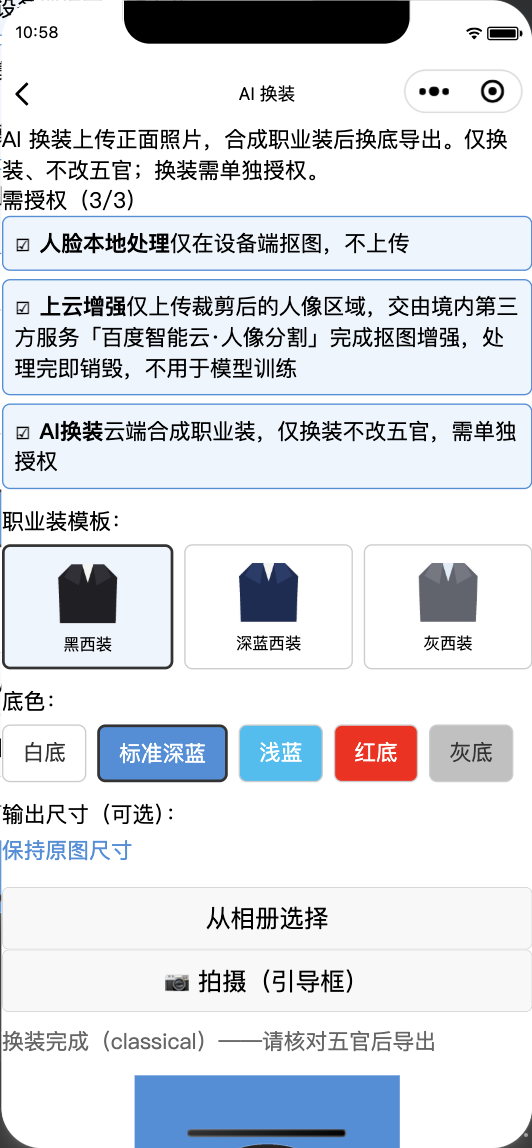
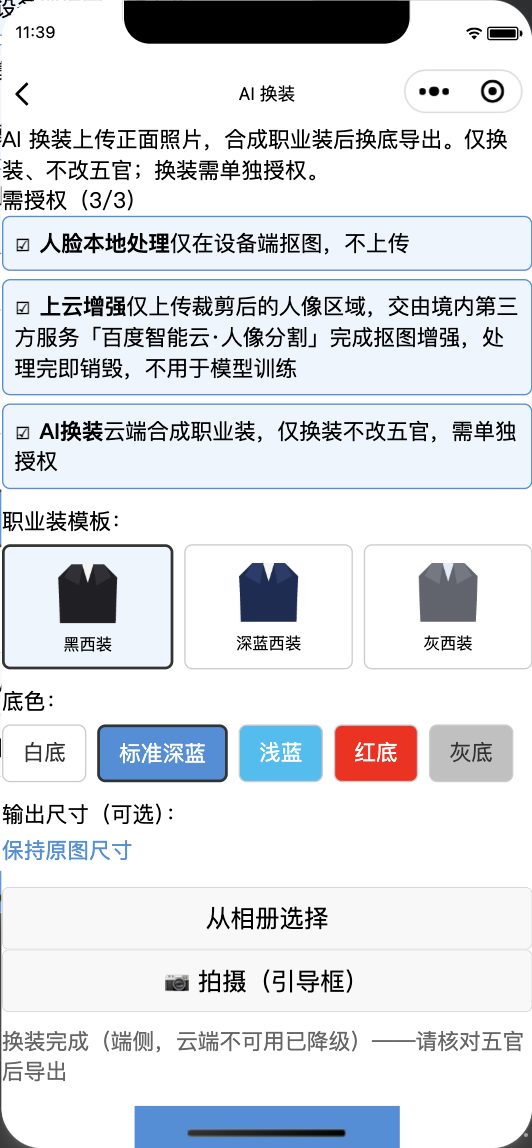
fix(#51): 复杂背景自动改走云端精修（置信高 ≠ 质量好）
- core/matting.js：decideRoute(conf, forceCloud) + segment({forceCloud})，强制上云需已授权 faceCloudEnhance，否则不强制也不抛 AC5

- useImagePicker：onImage(img, quality) 把本次取图的质量评估结果随参数回传（回调读 state 会拿到旧值，#31 同根）

- T1/T2/T3：质量提示判定 complexbg 且用户已勾「上云增强」→ 自动走百度云端真模型

- 状态行改中文后端名（端侧/云端精修），云端失败显示「云端不可用已降级」；质量提示文案补充云端精修引导

- T2 页面提示补充「只换底不裁剪构图，要出证件照请用一键证件照」

- 验证：verify.sh 全量（tsc 0 / 193 单测含 3 条新断言 / 编译通过）；T1/T2/T3 冒烟重跑全绿

- 文档：台账 #51、问题台账 #63、避坑指南新增「路由只看置信度不够 + hook 回调别读 state」

diff --git a/idphoto-miniprogram/src/pages/tool-bg/index.tsx b/idphoto-miniprogram/src/pages/tool-bg/index.tsx
@@ -7,7 +7,7 @@ import {
   buildCloudFnAdapter,
   planOutput,
   BG, getSpec, getPixelSize, listSpecs,
-  DPI_STD, DPI_HD,
+  DPI_STD, DPI_HD, backendLabel,
 } from '../../services';
 import { useImagePicker } from '../../hooks/useImagePicker';
 
@@ -39,7 +39,9 @@ export default function ToolBg() {
   const consentItems = requiredConsents(TOOL);
   const [granted, setGranted] = useState<string[]>([]);
   const rec = buildConsentRecord(TOOL, granted);
-  const picker = useImagePicker((img) => run(img.path, img.width, img.height));
+  const picker = useImagePicker((img, q) =>
+    run(img.path, img.width, img.height, { forceCloud: shouldForceCloud(q) }),
+  );
 
   const specs = listSpecs();
   const [specIndex, setSpecIndex] = useState(-1); // -1 = 保持原图尺寸（不裁剪）
@@ -61,6 +63,13 @@ export default function ToolBg() {
   } | null>(null);
   // 源图信息：换规格/dpi 时据此自动重跑整条链路（用户不必重新选图）
   const lastSrc = useRef<{ path: string; w: number; h: number } | null>(null);
+
+  // 背景复杂 + 已授权上云 → 强制走云端真模型（任务 #51：端侧置信高 ≠ 质量好）
+  function shouldForceCloud(q: any): boolean {
+    if (!q || !Array.isArray(q.tips)) return false;
+    const complex = q.tips.some((t: any) => t.code === 'complexbg');
+    return complex && granted.includes('faceCloudEnhance');
+  }
 
   const toggleConsent = (id: string) => {
     setGranted((prev) => (prev.includes(id) ? prev.filter((x) => x !== id) : [...prev, id]));
@@ -85,7 +94,7 @@ export default function ToolBg() {
     path: string,
     srcW: number,
     srcH: number,
-    opts?: { bgHex?: string | null; transparent?: boolean; specIndex?: number; dpi?: number },
+    opts?: { bgHex?: string | null; transparent?: boolean; specIndex?: number; dpi?: number; forceCloud?: boolean },
   ) {
     if (!rec.ready) {
       Taro.showToast({ title: '请先勾选所需授权', icon: 'none' });
@@ -156,6 +165,7 @@ export default function ToolBg() {
         consents: granted,
         audit: (meta: any) => console.log('[audit]', meta),
         tool: TOOL,
+        forceCloud: !!opts?.forceCloud, // 任务 #51：复杂背景强制云端精修
       });
 
       // 5. 换底合成 + 导出（共享渲染服务，任务 #50）
@@ -183,7 +193,7 @@ export default function ToolBg() {
         (seg.degraded ? ' · 已降级端侧' : '') +
         (specIdx >= 0 ? ` · ${specs[specIdx].name} @${dpiVal}dpi` : ' · 原图尺寸'),
       );
-      setMsg(`完成（${seg.backend}）`);
+      setMsg(`完成（${backendLabel(seg.backend)}${seg.degraded ? '，云端不可用已降级' : ''}）`);
     } catch (e: any) {
       const m = String((e && e.message) || e);
       if (m.startsWith('AC5')) {
@@ -262,7 +272,7 @@ export default function ToolBg() {
   return (
     <View className='page'>
       <Text className='page__title'>单独换底色</Text>
-      <Text className='page__hint'>上传一张已有照片，仅替换背景色，不改动五官。不强制规格、不做预审。</Text>
+      <Text className='page__hint'>上传一张已有照片，仅替换背景色，不改动五官。不强制规格、不做预审；**只换底不裁剪构图**，要出证件照请用「一键证件照」。</Text>
 
       {/* 授权（默认不勾选，未集齐不启动处理） */}
       <View className='consent'>

diff --git a/idphoto-miniprogram/src/pages/tool-idphoto/index.tsx b/idphoto-miniprogram/src/pages/tool-idphoto/index.tsx
@@ -12,6 +12,7 @@ import {
   collectEdgeSamples,
   BG, getSpec, getPixelSize, listSpecs, specLabel,
   DPI_STD, DPI_HD,
+  backendLabel,
 } from '../../services';
 import { useImagePicker } from '../../hooks/useImagePicker';
 import { applyBeauty } from '../../services';
@@ -64,10 +65,17 @@ export default function ToolIdPhoto() {
   const consentItems = requiredConsents(TOOL);
   const [granted, setGranted] = useState<string[]>([]);
   const rec = buildConsentRecord(TOOL, granted);
-  const picker = useImagePicker((img) => {
+  const picker = useImagePicker((img, q) => {
     setLastPick(img);
-    run(img.path, img.width, img.height);
+    run(img.path, img.width, img.height, { forceCloud: shouldForceCloud(q) });
   });
+
+  // 背景复杂 + 已授权上云 → 强制走云端真模型（任务 #51：端侧置信高 ≠ 质量好）
+  function shouldForceCloud(q: any): boolean {
+    if (!q || !Array.isArray(q.tips)) return false;
+    const complex = q.tips.some((t: any) => t.code === 'complexbg');
+    return complex && granted.includes('faceCloudEnhance');
+  }
 
   const specs = listSpecs();
   const [specIndex, setSpecIndex] = useState(0);
@@ -117,7 +125,7 @@ export default function ToolIdPhoto() {
   // 放宽 Taro 类型（微信 canvas 2d API 在部分基础库类型不全，统一用 any 访问）
   const anyTaro: any = Taro;
 
-  async function run(path: string, srcW: number, srcH: number, opts?: { suitOn?: boolean; specIndex?: number; dpi?: number }) {
+  async function run(path: string, srcW: number, srcH: number, opts?: { suitOn?: boolean; specIndex?: number; dpi?: number; forceCloud?: boolean }) {
     if (!rec.ready) {
       Taro.showToast({ title: '请先勾选所需授权', icon: 'none' });
       return;
@@ -269,6 +277,7 @@ export default function ToolIdPhoto() {
         consents: granted,
         audit: (meta: any) => console.log('[audit]', meta),
         tool: TOOL,
+        forceCloud: !!opts?.forceCloud, // 任务 #51：复杂背景强制云端精修
       });
 
       // 6. 换底合成：暂存工作画布的 RGBA 与 alpha，供「手动修补」重合成（PRD B1 / T1-17）
@@ -351,7 +360,7 @@ export default function ToolIdPhoto() {
         headHeightRatio: headRatio != null ? headRatio : undefined,
       });
       setResult(cr);
-      setMsg(`完成（${seg.backend}${seg.degraded ? '，已降级端侧' : ''}）`);
+      setMsg(`完成（${backendLabel(seg.backend)}${seg.degraded ? '，云端不可用已降级' : ''}）`);
     } catch (e: any) {
       const m = String((e && e.message) || e);
       if (m.startsWith('AC5')) {

diff --git a/idphoto-miniprogram/src/core/matting.js b/idphoto-miniprogram/src/core/matting.js
@@ -10,7 +10,10 @@ const { cloudMatting } = require('./mattingCloud');
 const CONF_THRESHOLD = 0.85; // 端侧置信度阈值，低于则触发上云增强
 
 // 根据置信度决定处理路由
-function decideRoute(confidence) {
+// forceCloud：调用方明确要求走云端（如质量评估判定「背景复杂」——**置信高 ≠ 质量好**，
+//              端侧经典算法在复杂背景上可能"自信地抠错"，任务 #51）
+function decideRoute(confidence, forceCloud = false) {
+  if (forceCloud) return 'cloud';
   return confidence >= CONF_THRESHOLD ? 'edge' : 'cloud';
 }
 
@@ -22,10 +25,16 @@ function decideRoute(confidence) {
 //   bgSamples: 背景色采样集（任务 #24）。经典基线的背景色由「画布四边」估计，
 //              T1 自动裁剪把工作画布缩小到「裁剪窗+余量」后四边可能压在人体上，
 //              故允许调用方在整图上先采一次注入。缺省不传 → 沿用四边采样（行为不变）。
-async function segment({ rgba, width, height, session, cloud, consents, audit, tool, bgSamples } = {}) {
+async function segment({ rgba, width, height, session, cloud, consents, audit, tool, bgSamples, forceCloud } = {}) {
   if (!rgba || !width || !height) throw new Error('segment: 缺少 rgba/width/height');
   const res = await localMatting(rgba, width, height, { session, bgSamples });
-  const route = decideRoute(res.quality.confidence);
+  // 强制上云的前提：已注入上云能力 + 已授权 faceCloudEnhance（AC5）
+  // 未授权时不强制（更不能因强制而抛 AC5 阻断用户），按原置信度路由
+  const canForce =
+    !!forceCloud &&
+    !!cloud && !!cloud.adapter &&
+    (consents || []).indexOf('faceCloudEnhance') >= 0;
+  const route = decideRoute(res.quality.confidence, canForce);
   const base = {
     width, height,
     maskSize: width * height,
@@ -92,8 +101,16 @@ function compositeTransparent(rgba, alpha, width, height) {
   return out;
 }
 
+/** 后端名 → 用户可读标签（'classical'/'edge' → 端侧；'cloud' → 云端精修） */
+function backendLabel(backend) {
+  if (backend === 'cloud') return '云端精修';
+  if (backend === 'classical' || backend === 'edge') return '端侧';
+  return String(backend || '');
+}
+
 module.exports = {
   CONF_THRESHOLD, decideRoute, segment, composite, compositeTransparent, estimateQuality, localMatting,
+  backendLabel,
   // 上云增强（来自 mattingCloud）
   cloudMatting,
   // 背景色采样（来自 mattingLocal，任务 #24 区域化裁剪用）

diff --git a/idphoto-miniprogram/src/hooks/useImagePicker.tsx b/idphoto-miniprogram/src/hooks/useImagePicker.tsx
@@ -100,7 +100,10 @@ async function getFileSizeBytes(
  * 由本 hook 在相册/拍照两种路径拿到路径与尺寸后统一调用。
  */
 export function useImagePicker(
-  onImage: (img: PickedImage) => void | Promise<void>,
+  /** onImage 第二个参数是本次取图的**质量评估结果**（可能为 null）。
+   *  为什么要传而不是让调用方读 picker.quality：setState 是异步的，
+   *  回调里读到的仍是旧值（问题台账 #31 同根）——任务 #51 需要它决定是否强制上云。 */
+  onImage: (img: PickedImage, quality: QualityTipProps['quality']) => void | Promise<void>,
 ): ImagePicker {
   const [cameraOpen, setCameraOpen] = useState(false);
   const [quality, setQuality] = useState<QualityTipProps['quality']>(null);
@@ -109,12 +112,15 @@ export function useImagePicker(
   const evaluate = async (path: string, w: number, h: number) => {
     setQuality(null);
     const rgba = await samplePixels(path);
-    if (!rgba) return; // 取不到像素 → 不提示
+    if (!rgba) return null; // 取不到像素 → 不提示
+    let q: QualityTipProps['quality'] = null;
     try {
-      setQuality(assessQuality(rgba, SAMPLE_SIZE, SAMPLE_SIZE, w, h));
+      q = assessQuality(rgba, SAMPLE_SIZE, SAMPLE_SIZE, w, h);
+      setQuality(q);
     } catch (e) {
       // 算法异常也不阻断
     }
+    return q;
   };
 
   const pickAlbum = async () => {
@@ -134,8 +140,8 @@ export function useImagePicker(
         Taro.showToast({ title: v.message || '图片不符合要求', icon: 'none' });
         return;
       }
-      await evaluate(path, info.width, info.height);
-      await onImage({ path, width: info.width, height: info.height });
+      const q = await evaluate(path, info.width, info.height);
+      await onImage({ path, width: info.width, height: info.height }, q);
     } catch (e: any) {
       const m = String((e && e.message) || e);
       // 用户主动取消（cancel / 取消）不提示，其余读取失败给轻提示
@@ -160,8 +166,8 @@ export function useImagePicker(
         Taro.showToast({ title: v.message || '图片不符合要求', icon: 'none' });
         return;
       }
-      await evaluate(path, info.width, info.height);
-      await onImage({ path, width: info.width, height: info.height });
+      const q = await evaluate(path, info.width, info.height);
+      await onImage({ path, width: info.width, height: info.height }, q);
     } catch (e) {
       Taro.showToast({ title: '读取照片失败，请重试', icon: 'none' });
     }

diff --git a/idphoto-miniprogram/src/pages/tool-suit/index.tsx b/idphoto-miniprogram/src/pages/tool-suit/index.tsx
@@ -10,6 +10,7 @@ import {
   planOutput,
   BG, getSpec, getPixelSize, listSpecs,
   DPI_STD, DPI_HD,
+  backendLabel,
 } from '../../services';
 import { useImagePicker } from '../../hooks/useImagePicker';
 
@@ -51,7 +52,16 @@ export default function ToolSuit() {
   const consentItems = requiredConsents(TOOL);
   const [granted, setGranted] = useState<string[]>([]);
   const rec = buildConsentRecord(TOOL, granted);
-  const picker = useImagePicker((img) => run(img.path, img.width, img.height));
+  const picker = useImagePicker((img, q) =>
+    run(img.path, img.width, img.height, { forceCloud: shouldForceCloud(q) }),
+  );
+
+  // 背景复杂 + 已授权上云 → 强制走云端真模型（任务 #51：端侧置信高 ≠ 质量好）
+  function shouldForceCloud(q: any): boolean {
+    if (!q || !Array.isArray(q.tips)) return false;
+    const complex = q.tips.some((t: any) => t.code === 'complexbg');
+    return complex && granted.includes('faceCloudEnhance');
+  }
 
   const specs = listSpecs();
   const [tplIndex, setTplIndex] = useState(0);
@@ -81,7 +91,7 @@ export default function ToolSuit() {
     path: string,
     srcW: number,
     srcH: number,
-    opts?: { bgHex?: string | null; specIndex?: number; dpi?: number },
+    opts?: { bgHex?: string | null; specIndex?: number; dpi?: number; forceCloud?: boolean },
   ) {
     // 参数覆盖（任务 #50）：state 异步，链式操作必须显式传值（问题台账 #31 同根）
     const specIdx = opts?.specIndex ?? specIndex;
@@ -139,6 +149,7 @@ export default function ToolSuit() {
         consents: granted,
         audit: (meta: any) => console.log('[audit]', meta),
         tool: TOOL,
+        forceCloud: !!opts?.forceCloud, // 任务 #51：复杂背景强制云端精修
       });
 
       // 5. 头肩定位（统一走 services/faceService，任务 #4：与 T1/T4 同一套口径）
@@ -188,7 +199,7 @@ export default function ToolSuit() {
         (specIdx >= 0 ? ` · ${specs[specIdx].name} @${dpiVal}dpi` : ' · 原图尺寸') +
         ` · ${headIsEstimate ? '比例估算定位' : '关键点定位'}`,
       );
-      setMsg(`换装完成（${seg.backend}）——请核对五官后导出`);
+      setMsg(`换装完成（${backendLabel(seg.backend)}${seg.degraded ? '，云端不可用已降级' : ''}）——请核对五官后导出`);
     } catch (e: any) {
       const m = String((e && e.message) || e);
       if (m.startsWith('AC5')) {

diff --git a/idphoto-miniprogram/src/services/index.ts b/idphoto-miniprogram/src/services/index.ts
@@ -3,7 +3,7 @@
 import { getSpec, getPixelSize, listSpecs, BG, BG_LABELS, DPI_STD, DPI_HD, specLabel } from '../core/specLibrary';
 import { listPapers, getPaper, planLayout, mmToPx, PAPERS, DEFAULT_MARGIN_MM, DEFAULT_GAP_MM, sheetPixelSize } from '../core/paperLibrary';
 import { check } from '../core/compliance';
-import { decideRoute, CONF_THRESHOLD, segment, composite, compositeTransparent, cloudMatting, collectEdgeSamples } from '../core/matting';
+import { decideRoute, CONF_THRESHOLD, segment, composite, compositeTransparent, cloudMatting, collectEdgeSamples, backendLabel } from '../core/matting';
 import { makeHttpAdapter, makeLocalBiRefStub, assertDomestic, cropForeground, encodeAlphaB64, decodeAlphaB64 } from '../core/mattingCloud';
 import { makeCloudFnAdapter } from './cloudFnAdapter';
 import { composeAndExportImage } from './renderService';
@@ -47,7 +47,7 @@ export {
   // 合规引擎
   check,
   // 抠图
-  decideRoute, CONF_THRESHOLD, segment, composite, compositeTransparent, cloudMatting, collectEdgeSamples,
+  decideRoute, CONF_THRESHOLD, segment, composite, compositeTransparent, cloudMatting, collectEdgeSamples, backendLabel,
   // 换装（T3 端侧贴图合成）
   alphaBBox, suitPlacement, suitCompose,
   // 输出构图规划（600dpi 动态工作图尺寸 + 裁剪窗口，三页共用）

diff --git a/idphoto-miniprogram/src/core/__tests__/core.test.js b/idphoto-miniprogram/src/core/__tests__/core.test.js
@@ -159,6 +159,10 @@ test('路由：置信≥0.85 走端侧，低于走云端', () => {
   assert.strictEqual(decideRoute(0.9), 'edge');
   assert.strictEqual(decideRoute(CONF_THRESHOLD), 'edge');
   assert.strictEqual(decideRoute(0.84), 'cloud');
+  // 任务 #51：forceCloud —— 调用方可强制上云（置信高 ≠ 质量好：复杂背景上端侧可能"自信地抠错"）
+  assert.strictEqual(decideRoute(0.99, true), 'cloud');
+  assert.strictEqual(decideRoute(0.5, true), 'cloud');
+  assert.strictEqual(decideRoute(0.99, false), 'edge');
 });
 
 test('质量评估：干净 alpha（无歧义）→ 置信=1，走端侧', () => {

diff --git a/idphoto-miniprogram/src/core/quality.js b/idphoto-miniprogram/src/core/quality.js
@@ -94,7 +94,7 @@ function assessQuality(rgba, w, h, srcW, srcH) {
     tips.push({
       level: 'warn',
       code: 'complexbg',
-      text: '背景较复杂，抠图边缘可能不干净，建议换纯色背景重拍',
+      text: '背景较复杂，抠图边缘可能不干净；勾选「上云增强」可改用云端精修（推荐）或换纯色背景重拍',
     });
   }
 

diff --git a/开发任务台账.md b/开发任务台账.md
@@ -53,7 +53,7 @@
 | 43 | **T1-11/12 向导内换装入口**（T1 向导集成换装步骤 + 五官自检闸门） | ✅ 完成（2026-10-27） | AI | 2026-10-27 完成：`pages/tool-idphoto` 集成 AI 换装——新增「👔 AI 换装（可选）」折叠面板（3 套自绘西装模板 + suitSwap 单独授权），复用 T3 端侧贴图合成 `suitCompose`（D2：仅覆盖肩颈前景区、不触碰脸部像素）；`applySuit`/`cancelSuit` 用最近一次取图重跑（`wantSuit` 显式传参，避开 setState 异步旧值）；换装后强制「五官自检」`.selfcheck` 区块 + `save()`/按钮双闸门（AC6：`suitApplied && !selfChecked` 禁用导出；每次重新生成重置自检）。验证：tsc 0 告警、core 单测 185 全过、新增 `工具链/verify_t1_suit.js` Node 仿真（无换装路径逐字节零回归、颈部线以上不变 D2、changeBelow>0）。**换装实际渲染/自检触控需真机（沙箱无 canvas），列入 #14 真机冒烟** | #2b | 10-27 |
 | 44 | **.gitignore 排除 `.workbuddy/`**（内部数据永不入库） | ✅ 完成（提交 c7fdc88） | AI | `.gitignore` 新增「项目内部数据」段（`.workbuddy/` 一律排除）；`git rm --cached` 解除 5 个误跟踪文件（4 日志 + MEMORY.md），磁盘实体保留。验证：`git check-ignore` 命中、`.workbuddy` 不再出现在 untracked；core 单测未受影响 | — | 10-26 |
 | 50 | **真机反馈：换底色/换规格/换 dpi 后成品不跟着变**（owner 2026-10-27 真机截图） | ✅ 完成（2026-10-27） | AI | 根因：四页参数控件只 setState 不触发重算（问题台账 #61）。修法：① 新建 `src/services/renderService.ts`（`composeAndExportImage` 合成+裁剪+导出，三页共用）；② 换底色/自定义色/透明底 → **只重跑合成**（秒级，不重跑抠图），T1 同步重算 5 项预审；③ 换规格/dpi → 工作画布与 alpha 坐标系改变 → 缓存源图路径后**自动整链重跑**（用户不必重新选图）；④ 链式操作显式传参（规避 setState 异步旧值）；⑤ 顺带修 T1 手动修补的 alpha 克隆二值化（#58 同根）。验证：`verify.sh` 全量（tsc 0 / 单测 193 / 编译通过）+ **5 个冒烟全部重跑通过**（T1/T2/T3/T5/T6），其中 `smoke_t2` 新增「换底色后重新合成」回归断言（底色 #FFFFFF → #438EDB 实测 OK） | #61 #62 | 10-27 |
-| 51 | **复杂背景下端侧抠图质量差**（owner 真机截图：原图 414×834 浅色复杂背景，端侧 classical 抠图后发丝/浅色区域残留、整体发白） | ⬜ 待办 | AI | 现状：路由按 confidence 决定是否上云，本例置信够 → 走端侧 → 视觉质量差（置信高 ≠ 质量好）。**候选修法**：① 质量提示（#36）判定「背景复杂」时，引导用户勾选「上云增强」走百度云端真模型；② 或把「背景复杂」纳入上云路由条件。**非阻塞**：用户勾上云增强即可获得更好效果（先在真机复验勾选后的效果再定方案） | — | 10-27 |
+| 51 | **复杂背景下端侧抠图质量差**（owner 真机截图：原图 414×834 浅色背景，端侧 classical 抠图后背景残留条纹、发丝破损） | ✅ 完成（2026-10-27） | AI | 根因：路由只看 confidence（置信高 ≠ 质量好）→ 复杂背景也走端侧经典算法。修法：① `core/matting.js` 的 `decideRoute(conf, forceCloud)` + `segment({forceCloud})` 支持强制上云（须已授权 faceCloudEnhance，否则不强制、绝不因强制抛 AC5）；② `useImagePicker` 把**本次取图的质量评估结果**一并回传（`onImage(img, quality)`）——setState 异步，回调里读 `picker.quality` 拿到的是旧值（#31 同根）；③ T1/T2/T3：当质量提示判定「背景复杂（complexbg）」且用户已勾选「上云增强」→ **自动改走百度云端真模型**；④ 状态行改中文后端名（端侧/云端精修），云端失败时显示「云端不可用已降级」；⑤ 质量提示文案补充「勾选上云增强可改用云端精修（推荐）」；⑥ T2 页面提示补充「只换底不裁剪构图，要出证件照请用一键证件照」。验证：`verify.sh` 全量（tsc 0 / 单测仍 193 条（新增 3 条 forceCloud 路由断言）/ 编译通过）+ T1/T2/T3 冒烟重跑全绿（模拟器无云端能力 → 状态行显示「端侧，云端不可用已降级」，降级链路正常）。**真机复验待 owner**：重新编译预览后用同一张原图复测，状态行应显示「完成（云端精修）」 | — | 10-27 |
 | 45 | **首页等保标识**（PRD I4） | ⬜ 待办（依赖等保申请） | 唐强 | #2e/#15：等保申请通过后再挂标识 | — | 10-26 |
 | 47 | **统一小程序内标题文案与注册名称**（原「证件照工具箱」→「标准照裁剪」） | ✅ 完成（2026-10-27） | AI | 3 处硬编码全部改为「标准照裁剪」：① `app.config.ts` 的 `window.navigationBarTitleText`（全局）② `pages/home/index.config.ts`（首页覆盖）③ `pages/home/index.tsx` hero 标题。依据：官方《常见拒绝情形》1.2.1「名称/简介/logo 与功能一致」。验证：`verify.sh` 全量（tsc 0 / core 单测 185 / 编译成功 11.6s）→ **编译产物核验** `dist/app.json` 与 `dist/pages/home/index.json` 均为「标准照裁剪」、`dist/` 明文+Unicode 转义双查**零残留**「证件照工具箱」、`dist/pages/home/index.js` 的 hero children 已是新文案。**冒烟 smoke_auto 未跑通**（DevTools 未启动，端口 16780 timeout）→ 需重开「设置→安全设置→服务端口」后补跑。其余页面标题本就是功能名（一键证件照/单独换底色/AI 换装/合规检测/规格转换/冲印排版/隐私政策），无需改 | — | 10-27 |
 | 49 | **T6 冲印排版缺首页入口卡片**（页面可用但用户不可达） | ✅ 完成（2026-10-27） | AI | 2026-10-27 完成。需求口径：PRD K1「① 从 T1 导出页"另存为排版版"进入；② 独立工具 T6」→ 两个入口都补。改动：① `pages/home/index.tsx` 的 `TOOLS` 增加第 6 项（🖨 冲印排版 / 「已做好的证件照平铺到相纸，导出可打印拼版图」/ tag「排版」/ path `/pages/tool-print/index`），2 列网格变 3 行；② `pages/tool-idphoto/index.tsx` 新增 `goPrintLayout()` 与按钮「🖨 另存为冲印排版（拼版打印）」，把导出图路径 encode 后带 `?src=` 跳 T6；③ 新建 `core/printHandoff.js`（纯函数 `decodeSrcParam`/`handoffMessage`/`resolveHandoff`，**8 条 Node 单测**）+ `services` 聚合导出；④ `pages/tool-print/index.tsx` 用 `getCurrentPages()` 的页面实例 options 取参（**不用 `Taro.useRouter`**：自动化/部分运行时下该 hook 不可用会整页崩），读图失败一律降级为「未能读取上一步的照片，请从相册重新选择」。验证：① `verify.sh` 全量通过（tsc 0 / core 单测 185→193 / 编译 12.9s）；② 新增 `工具链/smoke_print.js`（点第 6 张卡片 → T6 页面要素全中，**运行时错误 0**）；③ `smoke_auto.js --with-print` 端到端：T1 出图 → 点「另存为冲印排版」→ 进入 T6 且显示「已接收上一步导出的证件照」（**PRD K1 入口① 达成**）；④ 截图 `素材/测试截图/08-home-6cards.png`（6 卡 + 标题「标准照裁剪」）、`08-t6.png`、`03-t1-to-t6.png`（承接提示实拍）。**新发现**：`miniProgram.navigateTo()` 在本项目 automator 0.13 环境下对**任何页面**都报 `Uncaught [object Object]`（对照组 tool-spec 同样失败）→ 冒烟脚本一律改用「点卡片」的真实用户路径，坑位已写进 `smoke_print.js` 头部注释 | #60 | 10-27 |

diff --git a/问题台账.md b/问题台账.md
@@ -80,6 +80,8 @@
 | 61 | **C** | **换底色/换规格/换 dpi 后成品不跟着变**（owner 2026-10-27 真机截图反馈）：T2 页面已选「标准深蓝」，导出信息却仍是「底色 #FFFFFF JPG」，成品也是白底；用户必须**重新选一次图**底色才生效 | 四页（T1/T2/T3/T5）的参数控件只写了 `setState`（`onClick={() => setBg(o.key)}`），**没有任何触发重算的逻辑**——合成/导出只发生在 `run()`（选图）内部，state 变了但结果不会重新生成；`run()` 又用闭包里的旧 state，属于典型的「UI 状态与计算结果脱钩」 | **✅ 已解决（2026-10-27，任务 #50）**：① 新建 `src/services/renderService.ts`（`composeAndExportImage`：合成 + 可选裁剪 + 导出，三页共用一份实现）；② 四页各自缓存已处理结果（`lastProc`：rgba/alpha/plan/target），**换底色只重跑合成**（秒级，不重跑抠图/换装），T1 还需重算 5 项预审（底色是预审项之一）；③ 换规格/dpi 会改变工作画布尺寸 → alpha 坐标系随之改变，必须整条链路重跑，故缓存源图路径（`lastSrc`）并自动重跑（用户不必重新选图）；④ 所有链式操作**显式传参**（`opts.specIndex/dpi/bgHex`），规避 setState 异步旧值（问题台账 #31 同根）；⑤ 顺带修掉 T1 手动修补路径的 alpha 克隆 bug（`new Uint8ClampedArray(Float32Array)` 会把 0..1 浮点 alpha 二值化，#58 同根）→ 改为按类型保留。**预防**：①「参数控件 = 触发重算」写成硬约定，**只 setState 不重算 = Bug**；② 新增 `工具链/smoke_kit.js` 共享工具包 + 页面状态行 `className='status-line'`，冒烟以状态行为准；③ `smoke_t2.js` 增加「换底色后重新合成」回归断言（实测 OK：底色 #FFFFFF → #438EDB） | ✅ 已解决 |
 | 62 | **M** | **冒烟脚本与页面文案脱节，导致「好的功能被判失败」**：① `smoke_t3` 找不到导出按钮（#35 镜像自查加入后，导出按钮文案变成 3 种变体：自检未完成/镜像未确认/可导出，脚本只认前两种）；② `smoke_t5` 把成功判成失败（页面静态文案「镜像自拍…**会导致审核失败**」被 `msg.includes('失败')` 命中） | ① 页面文案改动时**没有同步更新冒烟断言**（#35 于 10-26 改文案，smoke_t3 此后再未跑过 → 失效一直未被发现）；② 判定依赖**整页文本关键词**而非结构化状态 → 任何展示文案变化都可能污染判定。**同类问题第 2 次**（按纪律必须升级载体，而不是逐个脚本改匹配） | **✅ 已解决（2026-10-27）**：① 四个页面的状态文案统一加 `className='status-line'`（机器可读状态位）；② 新建 `工具链/smoke_kit.js`（`readStatus`/`readPageText`/`waitForStatus`），四个冒烟脚本统一改为**只认状态行**判定（页面无该 class 时才回退全页文本）；③ `smoke_t3` 补勾镜像自查（`.mirror-check__box`）并接受 3 种按钮文案变体。**验证**：smoke_auto / smoke_t2 / smoke_t3 / smoke_t5 / smoke_print **全部重新跑通**（T1/T2/T3/T5/T6 均 OK，运行时错误 0）。**预防**：① 页面改文案 → 必须同步冒烟断言（已进《避坑指南》）；② 状态判定只认结构化状态位，**不要用整页文本做关键词判定**；③ 每次功能交付后要把相关冒烟**全部重跑一遍**，不能只跑改动页 | ✅ 已解决 |
 
+| 63 | **C** | **复杂背景下端侧抠图质量差**（owner 2026-10-27 真机截图：浅色背景的人像，端侧 classical 抠图后背景残留条纹、发丝/浅色区域破损、整体发白；状态行显示「完成（classical）」→ 走的是端侧） | 路由 `decideRoute(confidence)` **只看 confidence**：端侧经典算法在复杂背景上可能"自信地抠错"（alpha 看着有把握，视觉上却是错的）——**置信高 ≠ 质量好**；而质量评估（#36）早已识别出「背景复杂（complexbg）」，这个信号**没有接入路由** | **✅ 已解决（2026-10-27，任务 #51）**：① `core/matting.js` 的 `decideRoute(confidence, forceCloud)` + `segment({forceCloud})` 支持强制上云（前提：已注入云端能力 **且** 已授权 `faceCloudEnhance`，否则不强制、更不因强制抛 AC5）；② `useImagePicker` 改为 `onImage(img, quality)` —— 把**本次取图的质量评估结果**直接回传（回调里读 `picker.quality` 拿到的是 setState 前的旧值，问题台账 #31 同根）；③ T1/T2/T3：质量提示判定 complexbg **且**用户已勾选「上云增强」→ 自动改走百度云端真模型；④ 状态行改中文后端名（端侧 / 云端精修），云端不可用时显示「云端不可用已降级」；⑤ 质量提示文案补充「勾选上云增强可改用云端精修（推荐）」。**预防**：**路由只看单一指标是不够的**——把「已知会导致失败的质量信号」也接进路由；置信度类指标必须配一个「视觉正确性」信号交叉验证。**真机复验待 owner**（同一张原图，状态行应显示「完成（云端精修）」） | ⏳ 待真机复验 |
+
 
 ---
 
